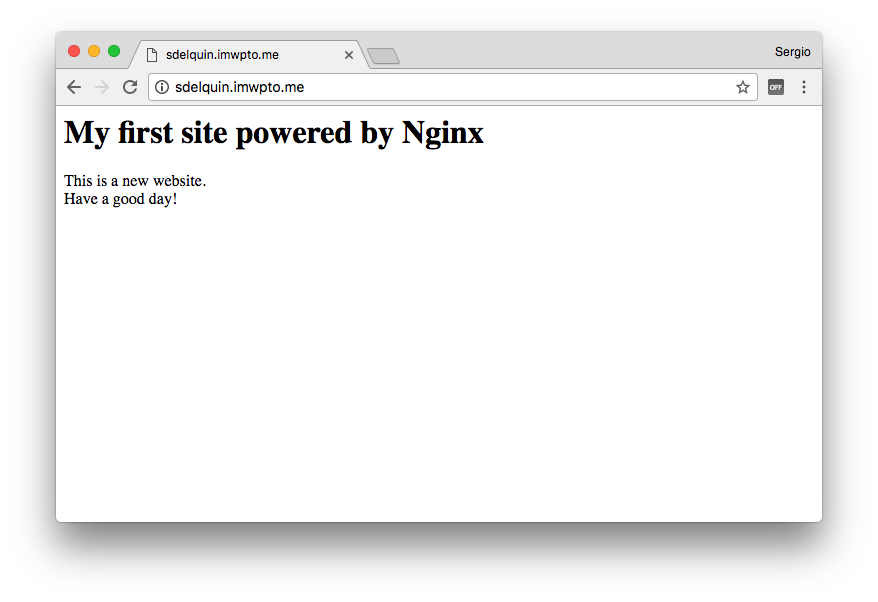
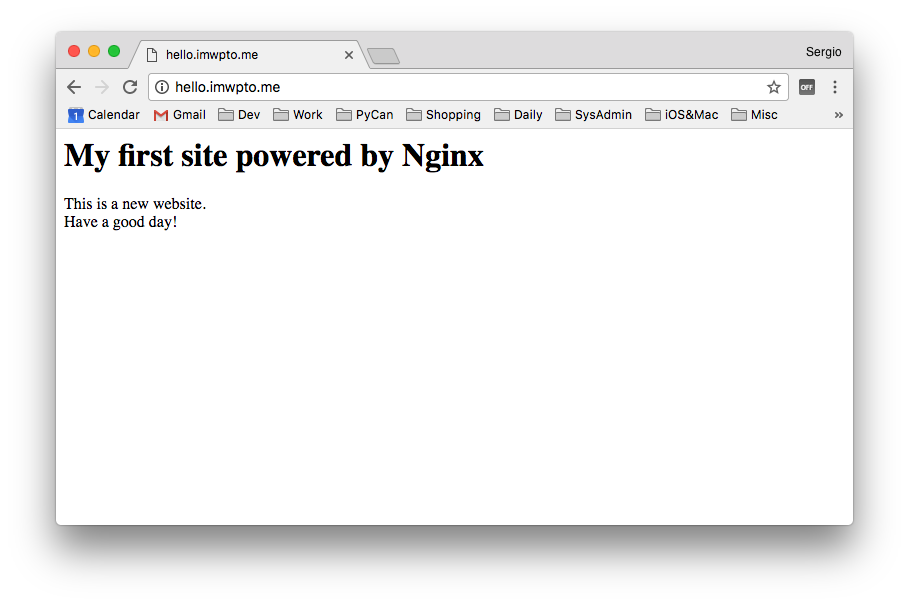
Updated content in UT1

Changed region(s): [[0.0615, 0.0598, 0.9533, 0.8671], [0.369, 0.0598, 0.4613, 0.1196]]

diff --git a/imw/UT1/notes/webserver/README.md b/imw/UT1/notes/webserver/README.md
@@ -240,18 +240,20 @@ Podríamos decir que Nginx dispone de dos ficheros destacados de configuración:
 
 Cada vez que queramos incluir un nuevo *virtual host*, debemos incluir un fichero en la ruta `/etc/nginx/sites-available` y luego enlazar dicho fichero desde la ruta `/etc/nginx/sites-enabled`.
 
-Supongamos que queremos mostrar una página web que hemos creado en la carpeta *home* del usuario *sdelquin*. Además queremos que se muestre esa página cuando se acceda en el navegador a la *url* `http://sdelquin.imwpto.me/`.
+### `hello.imwpto.me`
 
-Añadimos el fichero de configuración de *Nginx* que tratará las peticiones que se hagan al nombre de dominio `sdelquin.imwpto.me`:
+Supongamos que queremos mostrar una página web que hemos creado en la carpeta *home* del usuario *sdelquin*. Además queremos que se muestre esa página cuando se acceda en el navegador a la *url* `http://hello.imwpto.me/`.
+
+Añadimos el fichero de configuración de *Nginx* que tratará las peticiones que se hagan al nombre de dominio `hello.imwpto.me`:
 
 ```console
-sdelquin@cloud:~$ sudo vi /etc/nginx/sites-available/sdelquin
+sdelquin@cloud:~$ sudo vi /etc/nginx/sites-available/hello
 ```
 
 > Contenido
 ```nginx
 server {
-    server_name sdelquin.imwpto.me;
+    server_name hello.imwpto.me;
     root /home/sdelquin;
 }
 ```
@@ -260,11 +262,11 @@ A continuación tenemos que enlazar el fichero que hemos creado para que esté d
 
 ```console
 sdelquin@cloud:~$ cd /etc/nginx/sites-enabled/
-sdelquin@cloud:/etc/nginx/sites-enabled$ sudo ln -s ../sites-available/sdelquin
-sdelquin@cloud:/etc/nginx/sites-enabled$ ls -l ../sites-available/
-total 8
--rw-r--r-- 1 root root 2074 feb 11  2017 default
--rw-r--r-- 1 root root   36 sep 21 15:20 sdelquin
+sdelquin@cloud:/etc/nginx/sites-enabled$ sudo ln -s ../sites-available/hello
+sdelquin@cloud:/etc/nginx/sites-enabled$ ls -l
+total 0
+lrwxrwxrwx 1 root root 34 sep 21 15:09 default -> /etc/nginx/sites-available/default
+lrwxrwxrwx 1 root root 27 sep 21 15:22 hello -> ../sites-available/hello
 sdelquin@cloud:/etc/nginx/sites-enabled$
 ```
 
@@ -294,16 +296,18 @@ Si ahora accedemos desde un navegador, deberíamos ver lo siguiente:
 
 ![](img/virtual_server.png)
 
-Supongamos que ahora queremos, que cuando se acceda a `http://sdelquin.imwpto.me/blog/`, nos muestre la web que vamos a diseñar en el directorio `/home/sdelquin/webapps/blog`. Dado que se trata de un *location* dentro de un *virtual host*, tendremos que utilizar la siguiente directiva:
+### `hello.imwpto.me/blog/`
+
+Supongamos que ahora queremos, que cuando se acceda a `http://hello.imwpto.me/blog/`, nos muestre la web que vamos a diseñar en el directorio `/home/sdelquin/webapps/blog`. Dado que se trata de un *location* dentro de un *virtual host*, tendremos que utilizar la siguiente directiva:
 
 ```console
-sdelquin@cloud:~$ sudo vi /etc/nginx/sites-available/sdelquin
+sdelquin@cloud:~$ sudo vi /etc/nginx/sites-available/hello
 ```
 
 > Contenido
 ```nginx
 server {
-    server_name sdelquin.imwpto.me;
+    server_name hello.imwpto.me;
     root /home/sdelquin;
     
     location /blog {

diff --git a/imw/UT1/assignments/assignment1/README.md b/imw/UT1/assignments/assignment1/README.md
@@ -18,6 +18,7 @@ Los requerimientos son los siguientes:
 
 - Añadir iconos de [Font Awesome](http://fontawesome.io/)
 - Añadir fondo de [Subtle Patterns](https://www.toptal.com/designers/subtlepatterns/) 
+- Añadir portadas de las series.
 
 ## Información a entregar
 
